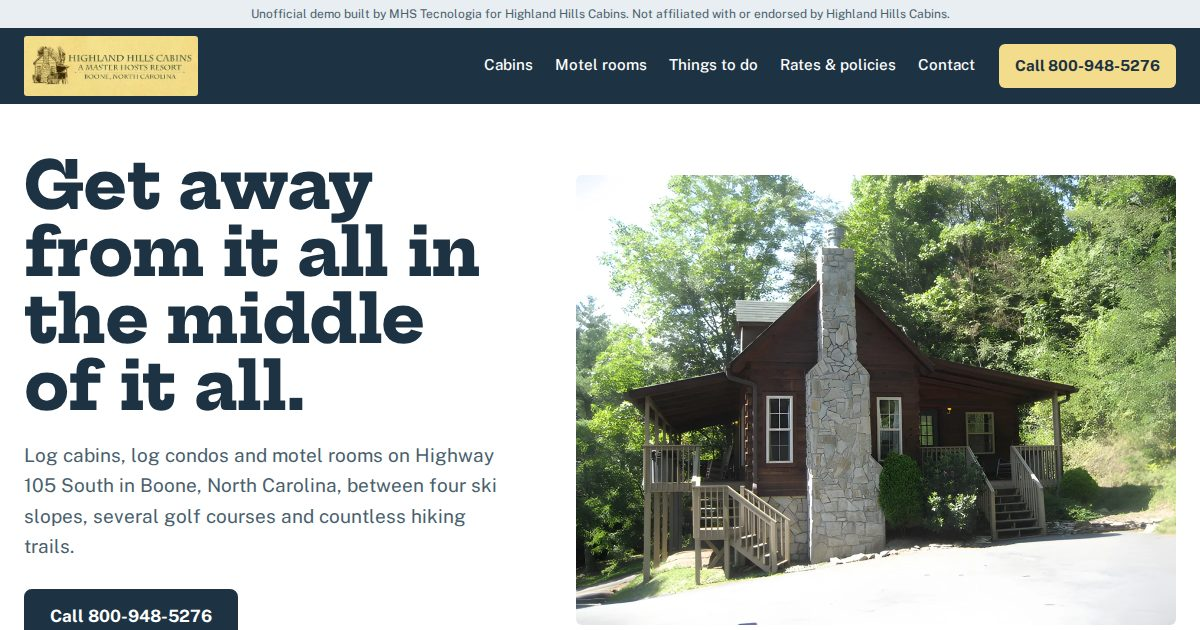
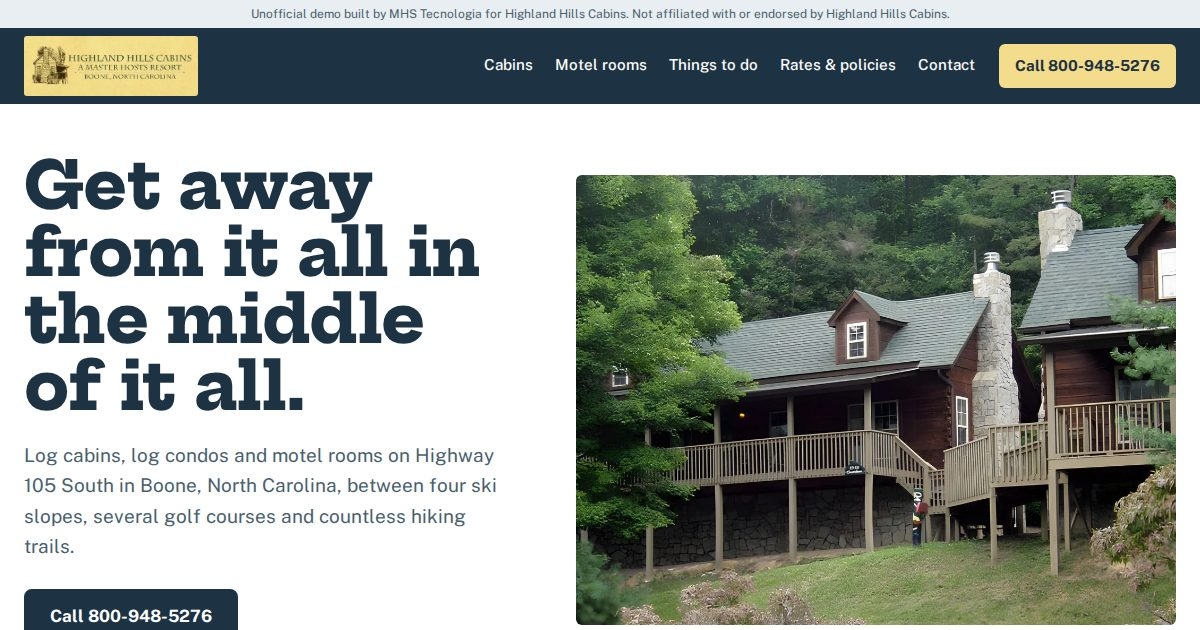
Previews: 160 ativos

diff --git a/highland-hills-cabins-boone-nc/index.html b/highland-hills-cabins-boone-nc/index.html
@@ -10,7 +10,7 @@
 <link rel="icon" href="favicon.svg" type="image/svg+xml">
 <link rel="preload" href="fonts/hepta.woff2" as="font" type="font/woff2" crossorigin>
 <link rel="preload" href="fonts/publicsans.woff2" as="font" type="font/woff2" crossorigin>
-<link rel="preload" as="image" href="img/hero-m-800.webp" imagesrcset="img/hero-m-800.webp 800w, img/hero-1200.webp 1200w" imagesizes="(min-width: 900px) 600px, calc(100vw - 32px)" fetchpriority="high">
+<link rel="preload" as="image" href="img/hero-m-800.webp" imagesrcset="img/hero-m-800.webp 800w, img/hero-1130.webp 1130w" imagesizes="(min-width: 900px) 600px, calc(100vw - 32px)" fetchpriority="high">
 <link rel="stylesheet" href="style.css">
 <meta property="og:type" content="website">
 <meta property="og:title" content="Highland Hills Cabins · Log cabins and motel rooms in Boone, NC">
@@ -58,8 +58,8 @@
       </div>
     </div>
     <figure class="hero-fig">
-      <picture><source media="(max-width: 899px)" srcset="img/hero-m-800.webp 800w" sizes="calc(100vw - 32px)" width="800" height="600"><img class="hero-img" src="img/hero-1200.webp" srcset="img/hero-1200.webp 1200w" sizes="(min-width: 900px) 600px, calc(100vw - 32px)" width="1200" height="900" alt="A log cabin at Highland Hills, with a stone chimney and front steps, among tall trees" fetchpriority="high"></picture>
-      <figcaption>The Cherokee or The Stuart. Two stories, two fireplaces, sleeps up to 12.</figcaption>
+      <picture><source media="(max-width: 899px)" srcset="img/hero-m-800.webp 800w" sizes="calc(100vw - 32px)" width="800" height="600"><img class="hero-img" src="img/hero-1130.webp" srcset="img/hero-1130.webp 1130w" sizes="(min-width: 900px) 600px, calc(100vw - 32px)" width="1130" height="848" alt="Two log cabins with stone chimneys and long porches on a wooded hillside at Highland Hills" fetchpriority="high"></picture>
+      <figcaption>Log cabins on the hillside at Highland Hills.</figcaption>
     </figure>
   </div>
 </section>
@@ -154,10 +154,8 @@
   </a>
   <p class="unit-short">Weekender Cottage Duplex sleeps up to 6.</p>
 </li>
+<li class="rooms-li"><a class="rooms-line" href="rooms.html"><img class="rooms-img" src="img/queen1-640.webp" srcset="img/queen1-640.webp 640w, img/queen1-1200.webp 1200w" sizes="(min-width: 1240px) 588px, (min-width: 900px) calc(50vw - 36px), 1px" width="1200" height="900" alt="Lodgement motel room with two queen beds and warm lamps" loading="lazy" decoding="async"><span class="rooms-name">Rather have a motel room?</span> <span>Lodgement log rooms with double queen, king or whirlpool, plus standard rooms. See the rooms</span></a></li>
     </ol>
-    <div class="pick-extra">
-      <a class="rooms-line" href="rooms.html"><span class="rooms-name">Rather have a motel room?</span> <span>Lodgement log rooms with double queen, king or whirlpool, plus standard rooms. See the rooms</span></a>
-    </div>
   </div>
 </section>
 

diff --git a/highland-hills-cabins-boone-nc/style.css b/highland-hills-cabins-boone-nc/style.css
@@ -130,6 +130,11 @@ p { margin: 0; }
   .units { grid-template-columns: 1fr 1fr; gap: 20px; }
   .unit-link { height: 100%; align-content: start; }
   .unit.no { grid-column: 1 / -1; order: 1; }
+  .units .rooms-line { height: 100%; align-content: start; padding: 0 0 24px; gap: 8px; overflow: hidden; background: #fff; color: var(--ink); border: 0; }
+  .units .rooms-line > span { padding: 0 24px; }
+  .units .rooms-line span:last-child { color: var(--hemlock); font-weight: 600; text-decoration-color: currentColor; }
+  .rooms-img { display: block !important; width: 100%; aspect-ratio: 4 / 3; object-fit: cover; margin-bottom: 10px; }
+  .rooms-name { font-size: 1.75rem; }
   .unit-body { padding: 20px 24px 24px; }
   .unit-name { font-size: 1.75rem; }
   .unit-sleeps { top: 14px; left: 14px; right: auto; padding: 8px 12px 10px; }
@@ -142,6 +147,7 @@ p { margin: 0; }
 .rooms-line:hover { border-color: var(--gold); }
 .rooms-line span:last-child { color: #d5e0e7; text-decoration: underline; text-decoration-color: var(--gold); text-underline-offset: 4px; }
 .rooms-name { font: 700 1.25rem/1.2 var(--slab); }
+.rooms-img { display: none; }
 
 /* road */
 .road { padding: 56px 0; background: var(--haze); }
